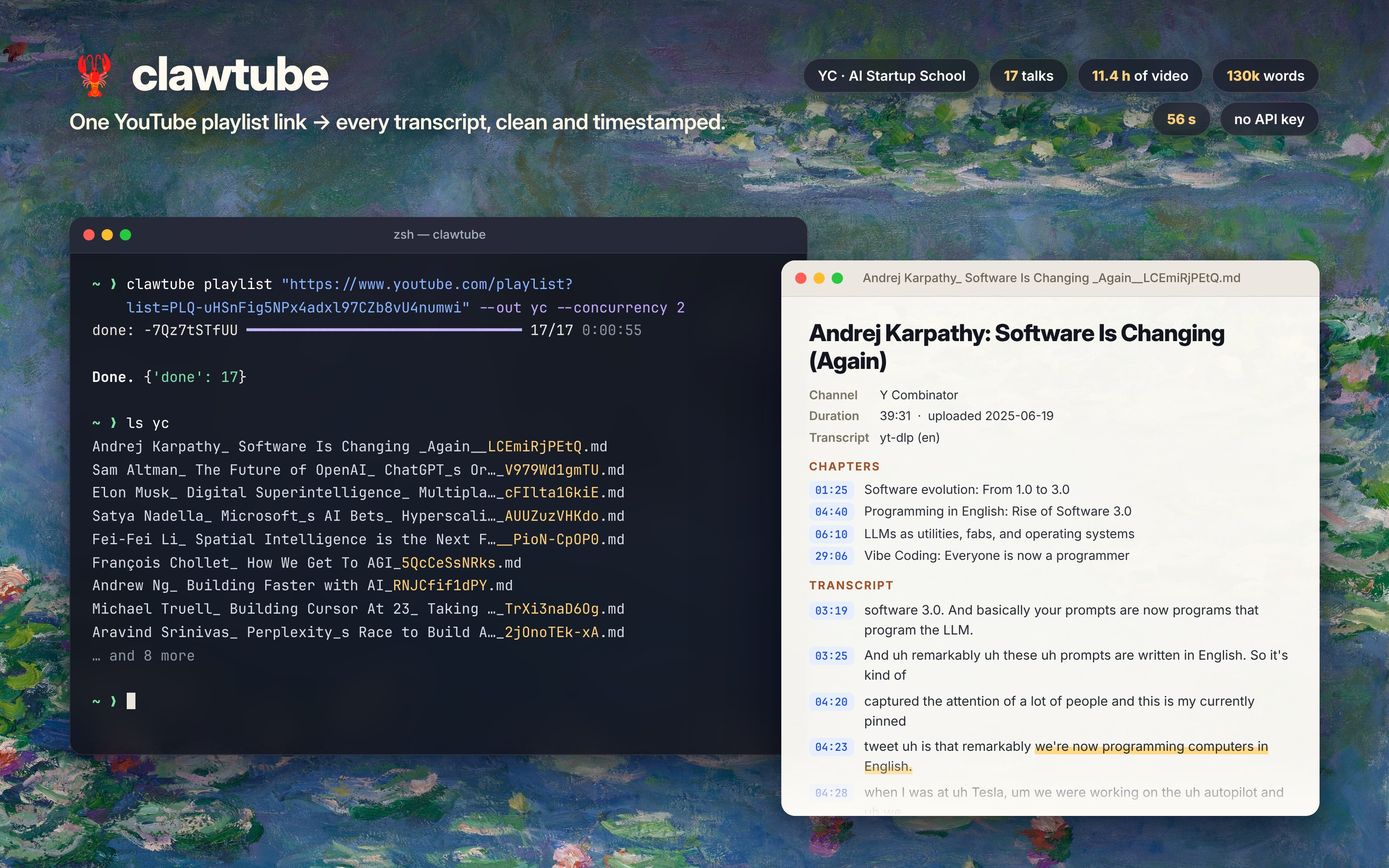
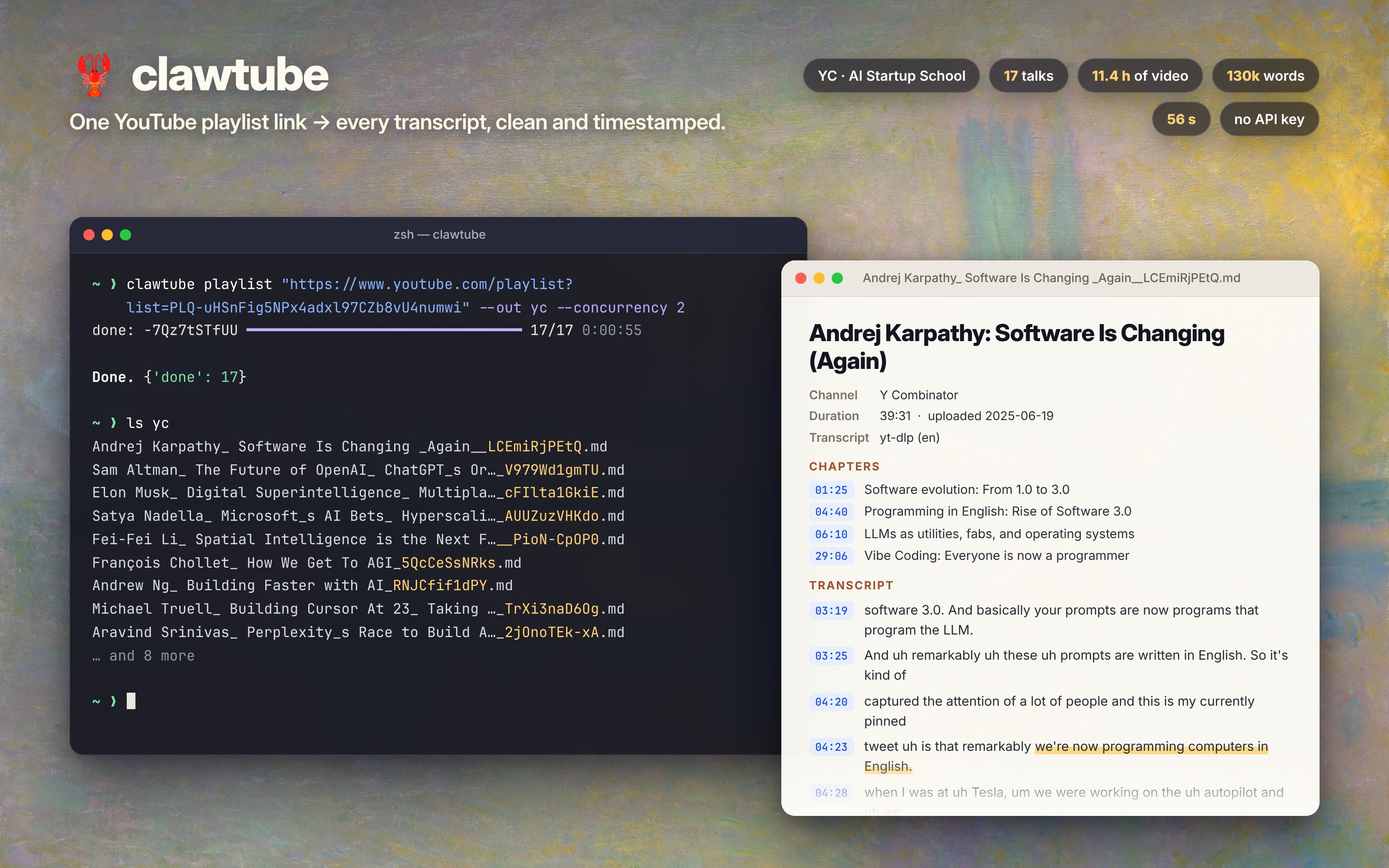
Calmer demo background: Monet's Charing Cross Bridge (1901) (#7)
* New demo: real run on YC's AI Startup School playlist

- assets/demo.jpg: 17 talks (Karpathy, Altman, Nadella, Fei-Fei Li, ...)
  -> 17 Markdown transcripts in 56 s, shown as the real terminal output
  next to the generated Karpathy transcript, over a procedurally
  painted abstract oil background.
- assets/social-preview.jpg (1280x640) for link previews.
- assets/demo-source/: the HTML and render script, so the image can be
  regenerated (fixed seed, identical output).
- Remove the old mock-up demo.svg.

Claude-Session: https://claude.ai/code/session_019dqvEzmGYEXG39LLMgkddL

* Demo background: Monet's Water Lilies (1906, public domain)

Replace the procedurally generated paint with Claude Monet's "Water
Lilies" (Art Institute of Chicago, CC0), for a calmer, real painting
behind the terminal and transcript. Credit added to the README.

Claude-Session: https://claude.ai/code/session_019dqvEzmGYEXG39LLMgkddL

* Calmer demo background: Monet's Charing Cross Bridge (1901)

Water Lilies was too busy behind the UI. Charing Cross Bridge, London
(Art Institute of Chicago, public domain/CC0) is a soft pastel haze with
no sharp detail. Lighter vignette so the colours stay luminous.

Claude-Session: https://claude.ai/code/session_019dqvEzmGYEXG39LLMgkddL

* Remove unused Water Lilies source image

Claude-Session: https://claude.ai/code/session_019dqvEzmGYEXG39LLMgkddL

---------

diff --git a/assets/demo-source/render.js b/assets/demo-source/render.js
@@ -1,7 +1,7 @@
 // Renders demo.html to ../demo.jpg-ready PNG: `node render.js demo@2x.png 2`
-// (needs Playwright with Chromium). Background: Claude Monet, "Water Lilies"
-// (1906), Art Institute of Chicago, public domain (CC0) -
-// https://www.artic.edu/artworks/16568 - cropped to 16:10 in monet-water-lilies.jpg.
+// (needs Playwright with Chromium). Background: Claude Monet, "Charing Cross
+// Bridge, London" (1901), Art Institute of Chicago, public domain (CC0) -
+// https://www.artic.edu/artworks/16544 - cropped to 16:10 in monet-charing-cross.jpg.
 const { chromium } = require('playwright');
 (async () => {
   const browser = await chromium.launch();

diff --git a/README.md b/README.md
@@ -22,7 +22,7 @@ The CLI works anywhere. The skills are written for agent runtimes that support t
 
 [![clawtube turning Y Combinator's AI Startup School playlist into 17 Markdown transcripts in 56 seconds](assets/demo.jpg)](https://www.youtube.com/playlist?list=PLQ-uHSnFig5NPx4adxl97CZb8vU4numwi)
 
-A real run, not a mock-up: Y Combinator's [AI Startup School](https://www.youtube.com/playlist?list=PLQ-uHSnFig5NPx4adxl97CZb8vU4numwi) playlist (Andrej Karpathy, Sam Altman, Satya Nadella, Fei-Fei Li, Andrew Ng and more) - 17 talks, 11.4 hours of video, about 130,000 words of timestamped transcript in 56 seconds. (Background: Claude Monet, [*Water Lilies*](https://www.artic.edu/artworks/16568), 1906, Art Institute of Chicago, public domain.) Try it yourself:
+A real run, not a mock-up: Y Combinator's [AI Startup School](https://www.youtube.com/playlist?list=PLQ-uHSnFig5NPx4adxl97CZb8vU4numwi) playlist (Andrej Karpathy, Sam Altman, Satya Nadella, Fei-Fei Li, Andrew Ng and more) - 17 talks, 11.4 hours of video, about 130,000 words of timestamped transcript in 56 seconds. (Background: Claude Monet, [*Charing Cross Bridge, London*](https://www.artic.edu/artworks/16544), 1901, Art Institute of Chicago, public domain.) Try it yourself:
 
 ```bash
 clawtube playlist "https://www.youtube.com/playlist?list=PLQ-uHSnFig5NPx4adxl97CZb8vU4numwi"

diff --git a/CHANGELOG.md b/CHANGELOG.md
@@ -20,7 +20,7 @@ All notable changes to this project are documented here. The format follows
 
 ### Changed
 - New README demo: a real run on Y Combinator's AI Startup School playlist (17 talks in 56 s),
-  plus a social preview image, over Monet's *Water Lilies* (1906, public domain); the image's
+  plus a social preview image, over Monet's *Charing Cross Bridge, London* (1901, public domain); the image's
   source is in `assets/demo-source/`.
 - Ready for public use: code of conduct, pull request template, feature-request template, a
   private route for security reports, Dependabot for GitHub Actions, and a "Responsible use"
